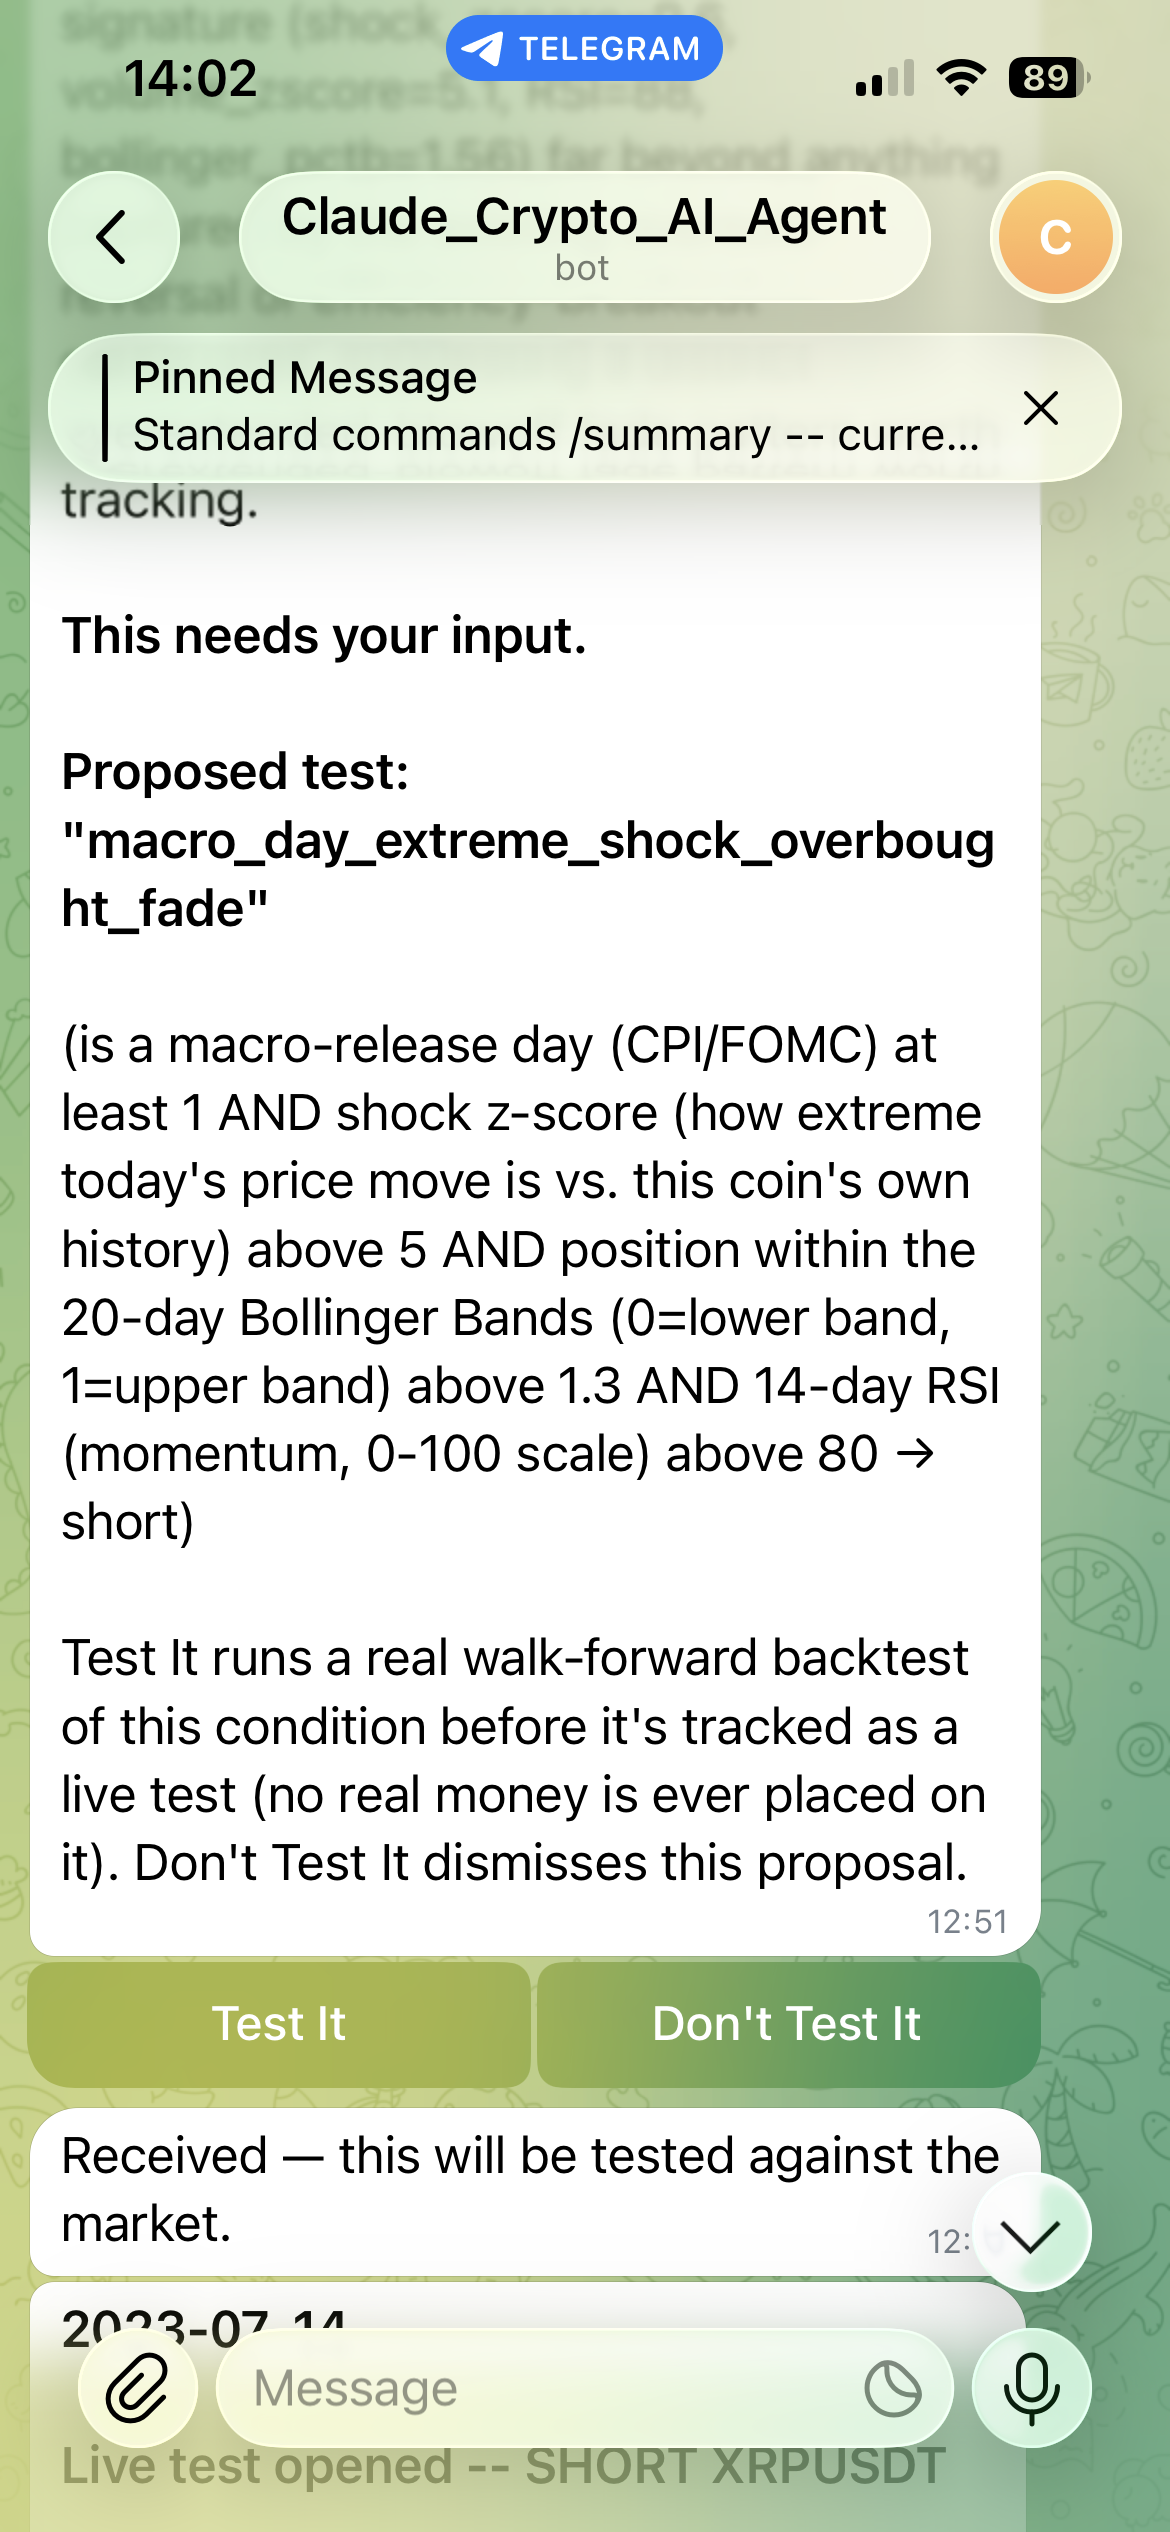
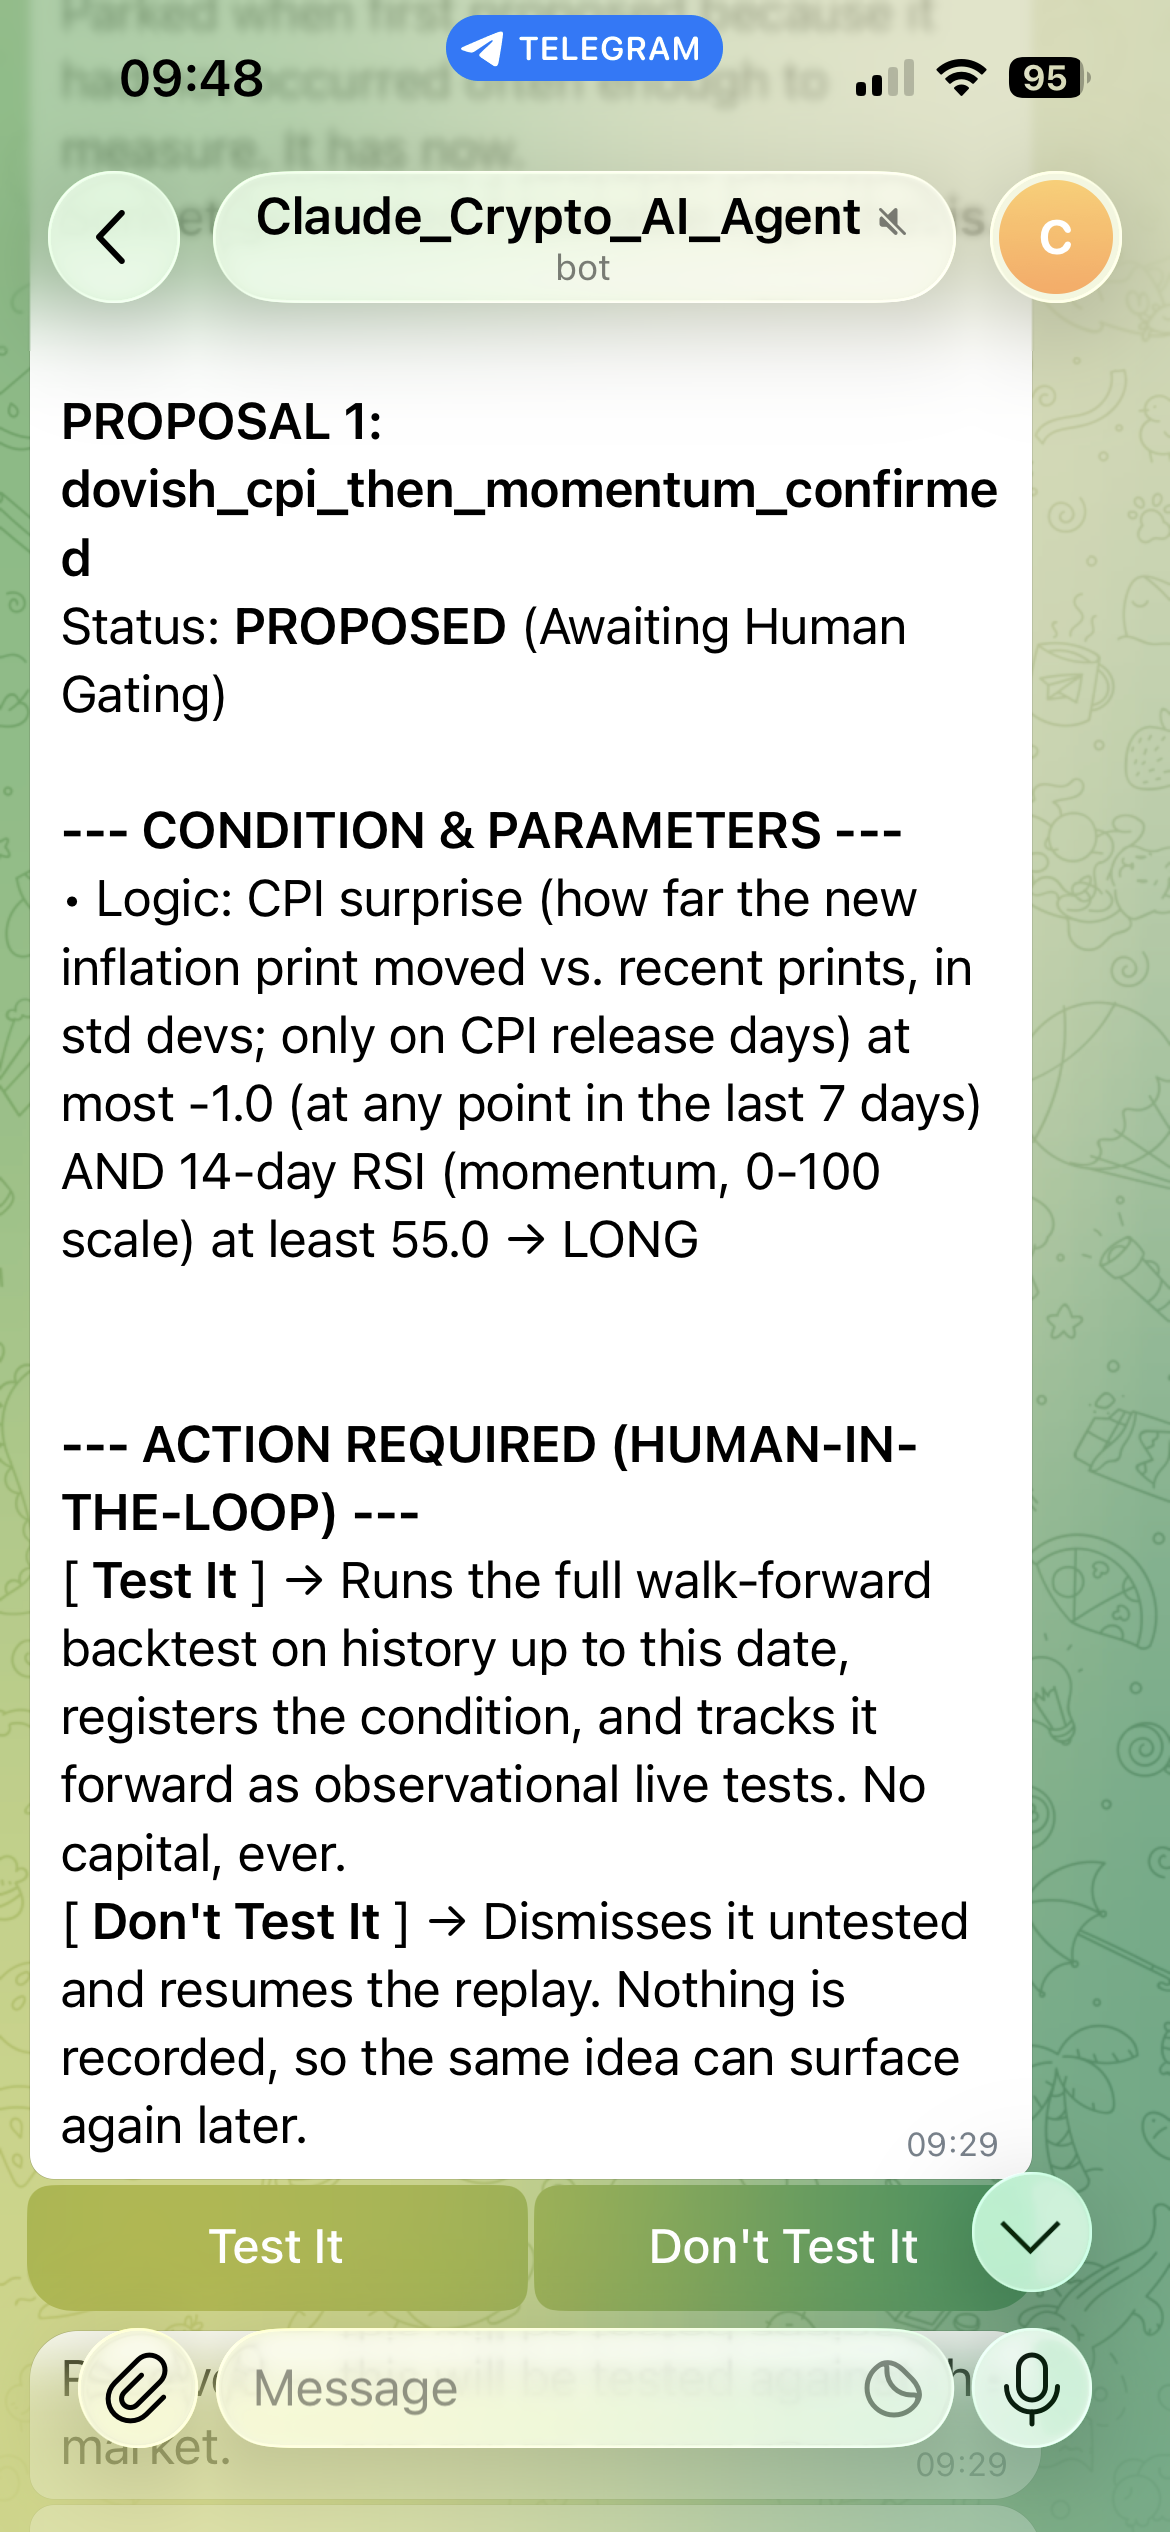
Replace three stale README screenshots with real post-rework Telegram captures
The proposal, status-update, and replay_details screenshots in the
Screenshots table predated the message-volume rework the README text
already describes -- captions said so honestly, but the images
themselves were never actually swapped. Replaced with real screenshots
from the user's device: a single-proposal PROPOSED card, a real STATUS
UPDATE: REJECTED message, and the 44fb /replay_details card whose
numbers already match the verified text example above it. The old
"live test resolved" slot no longer corresponds to any message type
this system still sends, so that file is removed rather than relabeled.

diff --git a/README.md b/README.md
@@ -92,13 +92,13 @@ So the layer was removed rather than kept for the badge. The honest scope is mac
 
 <table>
 <tr>
-<td width="33%" align="center"><img src="docs/case_study/assets/telegram_novel_condition_proposal.png" alt="Sonnet proposing a novel condition, with Test It / Don't Test It buttons" width="280"><br><sub>Sonnet proposes a novel condition — human approves with a button, never free text</sub></td>
-<td width="33%" align="center"><img src="docs/case_study/assets/telegram_live_test_resolved.png" alt="A confirmation checkpoint, with real forward return and power progress" width="280"><br><sub>A candidate crosses a confirmation checkpoint <i>(this screenshot predates the message-volume rework: individual live-test resolutions are no longer sent one by one, see "What replaced one message per live test" above — pending an updated screenshot)</i></sub></td>
+<td width="33%" align="center"><img src="docs/case_study/assets/telegram_novel_condition_proposal.png" alt="Sonnet proposing a novel condition, with Test It / Don't Test It buttons" width="280"><br><sub>Sonnet proposes a novel condition (<code>dovish_cpi_then_momentum_confirmed</code>) — human approves with a button, never free text</sub></td>
+<td width="33%" align="center"><img src="docs/case_study/assets/telegram_status_update.png" alt="A STATUS UPDATE message showing a rejected candidate's full verdict and power progress" width="280"><br><sub>A periodic STATUS UPDATE — here, a candidate that reached SAMPLE SUFFICIENT and was rejected on the evidence</sub></td>
 <td width="33%" align="center"><img src="docs/case_study/assets/telegram_prune_decision.png" alt="A keep-or-drop decision after 2+ years untested" width="280"><br><sub>2+ years untested — the human decides Keep or Drop <i>(now delivered as one periodic digest, computed offline)</i></sub></td>
 </tr>
 <tr>
 <td width="33%" align="center"><img src="docs/case_study/assets/telegram_replay_summary.png" alt="/replay_summary grouping every tracked candidate by status" width="280"><br><sub><code>/replay_summary</code> — every tracked candidate, grouped by status, recomputed fresh <i>(verdicts shown are pre-audit)</i></sub></td>
-<td width="33%" align="center"><img src="docs/case_study/assets/telegram_replay_details.png" alt="/replay_details showing the full numeric breakdown for one candidate" width="280"><br><sub><code>/replay_details</code> — every number behind one candidate's verdict <i>(pre-audit figures)</i></sub></td>
+<td width="33%" align="center"><img src="docs/case_study/assets/telegram_replay_details.png" alt="/replay_details showing the full numeric breakdown and dated occurrence history for candidate 44fb" width="280"><br><sub><code>/replay_details 44fb</code> — the same numbers quoted in the "Structured commands" example above</sub></td>
 <td width="33%" align="center"><img src="docs/case_study/assets/telegram_help_pinned.png" alt="The pinned /help reference listing every standard command" width="280"><br><sub>The pinned <code>/help</code> reference — every command, always one scroll away</sub></td>
 </tr>
 </table>
